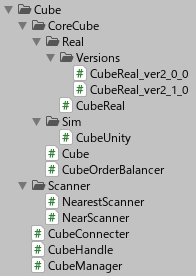
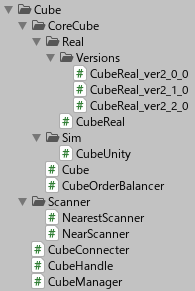
fix:document

Changed region(s): [[0.0923, 0.0, 0.9846, 1.0], [0.7077, 0.3768, 0.7385, 0.4058]]

diff --git a/docs/sys_cube.md b/docs/sys_cube.md
@@ -41,7 +41,8 @@ Cube  +-------------------------------+ キューブルートディレクトリ
 │   ├── Real  +-----------------------+ リアル実装ディレクトリ
 │   │   ├── Versions  +---------------+ リアル実装のバージョンディレクトリ
 │   │   │   ├── CubeReal_ver2_0_0.cs  + 2.0.0リアル実装クラス
-│   │   │   └── CubeReal_ver2_1_0.cs  + 2.1.0リアル実装クラス
+│   │   │   ├── CubeReal_ver2_1_0.cs  + 2.1.0リアル実装クラス	
+│   │   │   └── CubeReal_ver2_2_0.cs  + 2.2.0リアル実装クラス
 │   │   └── CubeReal.cs  +------------+ リアル実装抽象クラス
 │   ├── Sim    +----------------------+ シミュレータ実装ディレクトリ
 │   │   └── CubeUnity.cs  +-----------+ シミュレータ実装クラス
